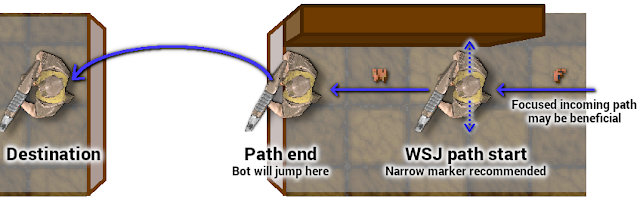
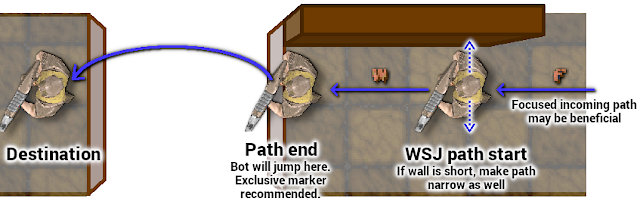
Tweak narrow & WSJ paths
- increase homing accuracy when slow narrow path
- never skip homing if path too vertical
- use custom touch logic for WSJ paths

diff --git a/waypoint/README.md b/waypoint/README.md
@@ -255,7 +255,7 @@ These steps do not need to be done in this exact order, but you will typically g
      A less common use case is to force the bot to traverse a short bit of lava, which it may otherwise refuse if there is no obvious spot to jump to.  
      In `lilith` you will find examples of both these cases at the 2 teleports in the map's corners.
    - **Narrow path mode** (shown as `‘=’`, number 32 in code) makes the bot do effort to align itself to this path before proceeding, this is useful to get through narrow openings or walk/climb on narrow structures like ladders. See the Advanced section for details.
-   - **Focused path mode** (shown as `‘F’`, number 2 in code) makes the bot look at (focus on) the destination marker of the path. This is useful when walking along tricky thin ledges (example in `monsoon`), or when the bot needs to jump out of water (example in `cmt4`). Without this mode, the bot may be distracted by looking at the next item it wants to pick up, causing it to move inaccurately and fall off the ledge, or face the wrong way to perform the water jump. (Looking at enemies always has priority over this path mode.)
+   - **Focused path mode** (shown as `‘F’`, number 2 in code) makes the bot look at (focus on) the destination marker of the path. It is recommended to set this on every path where the bot has to jump out of water (example in `cmt4`). It is also useful for walking along tricky thin ledges (example in `tox`). It may also help to make certain jumps more reliable (example in `aerowalk`). Without this mode, the bot may be distracted by looking at the next item it wants to pick up, causing it to move inaccurately and face the wrong way to perform the water jump, or fall off the ledge. (Looking at enemies always has priority over this path mode.)
    - **Wall strafe jump mode** (shown as `‘W’`, number 8 in code) exploits Quake's weird physics to allow bots to jump across gaps too wide for a normal jump in some situations. More info in the advanced section below.
    - **Need shoot mode** (shown as `‘N’`, number 256 in code) is for paths that require shooting a trigger to be traversable, often a door like in _dm6,_ but the trigger may also be separate from the door. More details in the advanced section below.
    - **Shoot at** (shown as `‘h’`, number 32 in code) is a _pseudo path_ mode that indicates what object to shoot for _need shoot_ mode. See the advanced section for more info.
@@ -376,7 +376,7 @@ Converting embedded waypoints back to QuakeC code format is simple: load the map
 
 ### Unreachable and untouchable markers
 
-This is optional, but can prevent the bot from doing certain dumb things. Markers can be flagged as being **unreachable,** which means the bot should avoid getting near them. Bots will avoid making jumps that end up near an unreachable marker. The bot will also totally ignore items flagged as unreachable, no matter how juicy they may seem.
+This is optional, but can prevent the bot from getting stuck or doing certain dumb things. Markers can be flagged as being **unreachable,** which means the bot should avoid getting near them. Bots will avoid making jumps that end up near an unreachable marker. The bot will also totally ignore items flagged as unreachable, no matter how juicy they may seem.
 
 To set a marker as unreachable: set display mode `Z` to “Display type,” and use `V` to select `unreachable node`. Then activate the marker and right-click (`MOUSE2`).
 
@@ -384,6 +384,8 @@ If there are lava or slime pits, or deadly traps, it is a good idea to place som
 In **lava pits** shallow enough to allow jumping, you may add rocket-jump paths to give the bot a better chance of escaping. If the pit is too deep for jumping, making outgoing paths is generally useless and could interfere with the bot's emergency escape mechanism, which will attempt to rocket-jump towards a nearby safe marker. You can add one-way paths as hints for the best spot to aim for, but such paths should not have any special mode assigned to them.
 
 There is also an **untouchable** marker type. When set, the marker will never produce a touch event. As mentioned above, it is recommended to set this on intermediate `trigger_push` markers. It can also be used on markers that overlap with other markers and are redundant. For instance if an `info_player_deathmatch` is on top of an item marker, it makes sense to just disable touch on the spawn marker and only use the item for paths.  
+In general it is also recommended to make `trigger_multiple` markers untouchable, to ensure they do not interfere with paths. Usually these triggers will be activated anyway at the right moment when the bot follows a trajectory that goes through them, and making them an explicit part of the path offers no benefits. Only if a `trigger_multiple` is an essential part of a path, like acting as a lift button, must it be touchable.
+
 _Be careful:_ an untouchable marker must never have incoming paths, or the bot may orbit around it waiting for a touch that never comes. (It makes no sense either to give it outgoing paths, but that is merely pointless instead of dangerous). Errors will be printed in the `MarkerInfo` section of the waypoint dump when paths towards untouchable markers are detected.  
 The waypoint tool will also ignore untouchable markers unless closest-marker-mode (`F`) is active. This helps to connect paths to the other overlapping marker (and makes it more obvious when a marker is untouchable).
 
@@ -527,11 +529,12 @@ Some maps simulate _ladders_ by means of what is basically the steepest possible
 
 If the bot can approach the ladder from its sides, just placing a marker in front of it and connecting it to the top marker, may be problematic. Due to the coarseness of the touch mechanism, the lower marker may already be touched long before the bot is truly in front of the ladder. The bot will then already try to aim for the top of the ladder, fruitlessly attempting to climb up the wall.
 
-The most practical solution in cases like these where the bot must first ensure to come very close to a marker before proceeding on a certain path, is to assign `narrow` mode to that path, in this case the path going up the ladder. As usual, set one-way path mode with the `J` key, then select this mode with the `V` key, and right-click the marker. For additional accuracy, you can also set slow path mode on this path.
+The most practical solution in cases like these where the bot must first ensure to come very close to a marker before proceeding on a certain path, is to assign `narrow` mode to that path, in this case the path going up the ladder. As usual, set one-way path mode with the `J` key, then select this mode with the `V` key, and right-click the marker. For additional accuracy, you can add _slow_ mode to this path.
 
 ![Ladder markers](images/ladder.jpg)
 
-`Narrow` path mode is not only useful for ladders, it can also help to guide the bot through narrow openings or ensure it is in the right position to start walking across a narrow beam. However, don't use this mode unnecessarily, because it can cause the bot to slow down to satisfy the proximity requirement. To reduce the risk of the bot slowing down, try to encourage the bot to already be aligned to the narrow path before it touches the marker.  
+`Narrow` path mode is not only useful for ladders, it can also help to guide the bot through narrow openings or ensure it is in the right position to start walking across a narrow beam. Do not place the starting point of the narrow path inside the door or on top of the narrow beam, place it slightly before, such that the bot is aligned _before_ navigating the obstacle.  
+However, don't use this mode unnecessarily, because it can cause the bot to slow down to satisfy the proximity requirement. To reduce the risk of the bot slowing down, try to encourage the bot to already be aligned to the narrow path before it touches the marker.  
 Also, narrow paths are useless under water, where the swimming logic handles obstacles.
 
 
@@ -574,8 +577,8 @@ Waypoints can be set up to rely on this trick by setting _wall strafe jump_ path
 
 Some hints to improve chances of this working:
 - The path must be parallel to the wall. The simplest way to ensure this, is to place both markers right against the wall.
-- Place the end marker right on the edge from where to jump, to maximize the distance that can be bridged.
-- If the available wall segment is short, also assign `narrow` mode to the path to get the most out of it.
+- Place the end marker right on the edge from where to jump, to maximize the distance that can be bridged. This marker should only have 1 incoming and 1 outgoing path, and should be made _exclusive_ if there is any risk of touching it while not wall strafing.
+- If the available wall segment is short, also assign `narrow` mode to the path to make the bot come closer to the start point and get the most from the limited space.
 - It may also help to set _focused path mode_ on the path leading to the start marker, to ensure the bot is already looking mostly in the right direction at the start of the path. Slow path mode may help to give the bot more time to adjust its aim.
 
 Look at `catalyst` (jump towards mega health) for an example.
